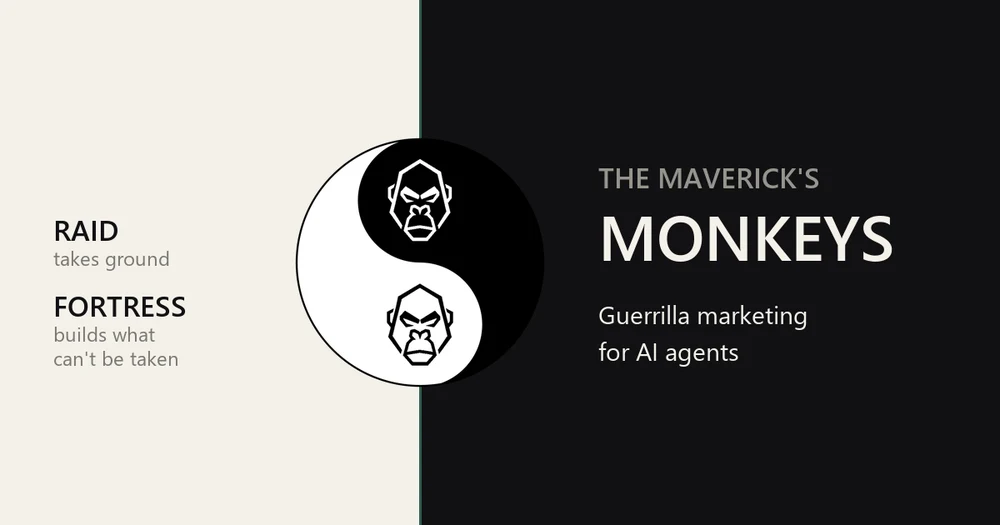
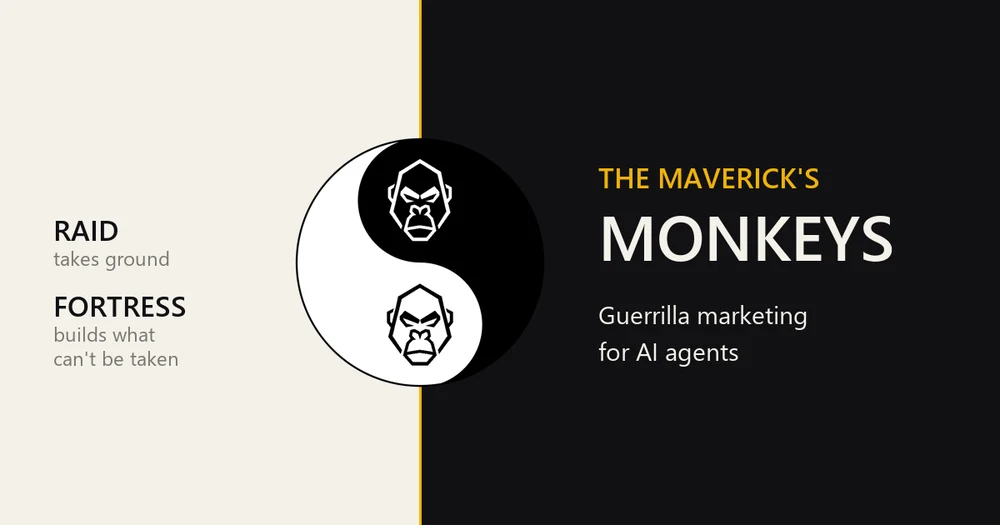
Monkeys page takes the brand's own palette: black, white, grey, yellow
Sampled from your sheet rather than guessed: bone #F4F1E8 (near-identical to
what was already there), ink, greys, and #F1B207.

TWO yellows, because one cannot do both jobs. #F1B207 reads 9.98:1 on ink and
1.68:1 on bone — fine as a seam, a border or type on the dark half, unusable
as text on a light one. --mm-gold-deep is the same hue darkened to 4.82:1 on
bone, for the places yellow has to be read rather than seen. Every use is
assigned to whichever passes.

The verdigris is gone from this page. It belongs to the site; the Monkeys have
their own colours, which was the argument for giving this page its own ground
in the first place.

OG card rebuilt to match, seam and kicker in gold.

Changed region(s): [[0.589, 0.3048, 0.837, 0.3657], [0.403, 0.7314, 0.434, 1.0], [0.403, 0.0, 0.434, 0.2438]]

diff --git a/monkeys.css b/monkeys.css
@@ -34,7 +34,7 @@ body.mm { background: var(--mm-bone); color: var(--mm-ink); }
   position: absolute;
   inset: 0 0 0 50%;
   background: var(--mm-ink);
-  border-left: var(--rule-heavy) solid var(--accent);
+  border-left: var(--rule-heavy) solid var(--mm-gold);
   z-index: 0;
 }
 .mm-hero > * { position: relative; z-index: 1; }
@@ -104,7 +104,7 @@ body.mm { background: var(--mm-bone); color: var(--mm-ink); }
 /* The console is neither half — it is where both are operated from. */
 .mm-tool--hinge {
   background: var(--mm-bone);
-  border-color: var(--accent);
+  border-color: var(--mm-gold);
   border-left-width: var(--rule-heavy);
 }
 .mm-tool--hinge .mm-tool-what { color: var(--mm-muted); }
@@ -121,9 +121,9 @@ body.mm { background: var(--mm-bone); color: var(--mm-ink); }
   font-size: var(--step--1);
   letter-spacing: var(--track-util);
   text-transform: uppercase;
-  color: var(--accent);
+  color: var(--mm-gold-deep);
 }
-.mm-tool--yin .mm-tool-role { color: var(--accent-lift); }
+.mm-tool--yin .mm-tool-role { color: var(--mm-gold); }
 .mm-tool-what { margin: 0; line-height: var(--leading-body); }
 .mm-tool-links { margin-top: auto; display: flex; flex-wrap: wrap; gap: var(--space-2); }
 
@@ -148,11 +148,11 @@ body.mm { background: var(--mm-bone); color: var(--mm-ink); }
 .mm-flow li::before {
   content: counter(mm);
   font-family: var(--font-util);
-  color: var(--accent);
+  color: var(--mm-gold-deep);
   font-size: var(--step-1);
 }
 .mm-flow b { font-weight: var(--weight-black); }
-.mm-flow .mm-gate { color: var(--accent); font-weight: var(--weight-black); }
+.mm-flow .mm-gate { color: var(--mm-gold-deep); font-weight: var(--weight-black); }
 
 /* ---- Short viewports and phones ---------------------------------------- */
 
@@ -161,7 +161,7 @@ body.mm { background: var(--mm-bone); color: var(--mm-ink); }
      bottom half and the mark sits between them — the same relationship
      rotated, rather than a split that no longer splits anything. */
   .mm-hero { grid-template-columns: 1fr; text-align: center; }
-  .mm-hero::after { inset: 50% 0 0 0; border-left: 0; border-top: var(--rule-heavy) solid var(--accent); }
+  .mm-hero::after { inset: 50% 0 0 0; border-left: 0; border-top: var(--rule-heavy) solid var(--mm-gold); }
   .mm-pair { text-align: center; }
   .mm-mark { margin: 0 auto; }
 }

diff --git a/tokens.css b/tokens.css
@@ -41,6 +41,13 @@
   --mm-rule-dark: #33333a;   /* hairlines on ink */
   --mm-muted:     #7a7872;   /* secondary type on bone */
   --mm-muted-up:  #96948d;   /* secondary type on ink */
+  /* Black, white, grey and yellow — the brand's own palette, sampled from its
+     sheet. TWO yellows because one cannot do both jobs: --mm-gold reads 9.98:1
+     on ink and only 1.68:1 on bone, so it is for the dark half and for graphic
+     marks, never for text on a light ground. --mm-gold-deep is the same hue
+     darkened to 4.82:1 on bone, for the places yellow has to be readable. */
+  --mm-gold:      #f1b207;   /* graphics, seams, and type on the ink half */
+  --mm-gold-deep: #8a6300;   /* type on the bone half — passes AA at 4.82:1 */
 
   /* --- Type --------------------------------------------------------------
      No webfont. This site's owner's stated position is that it collects
